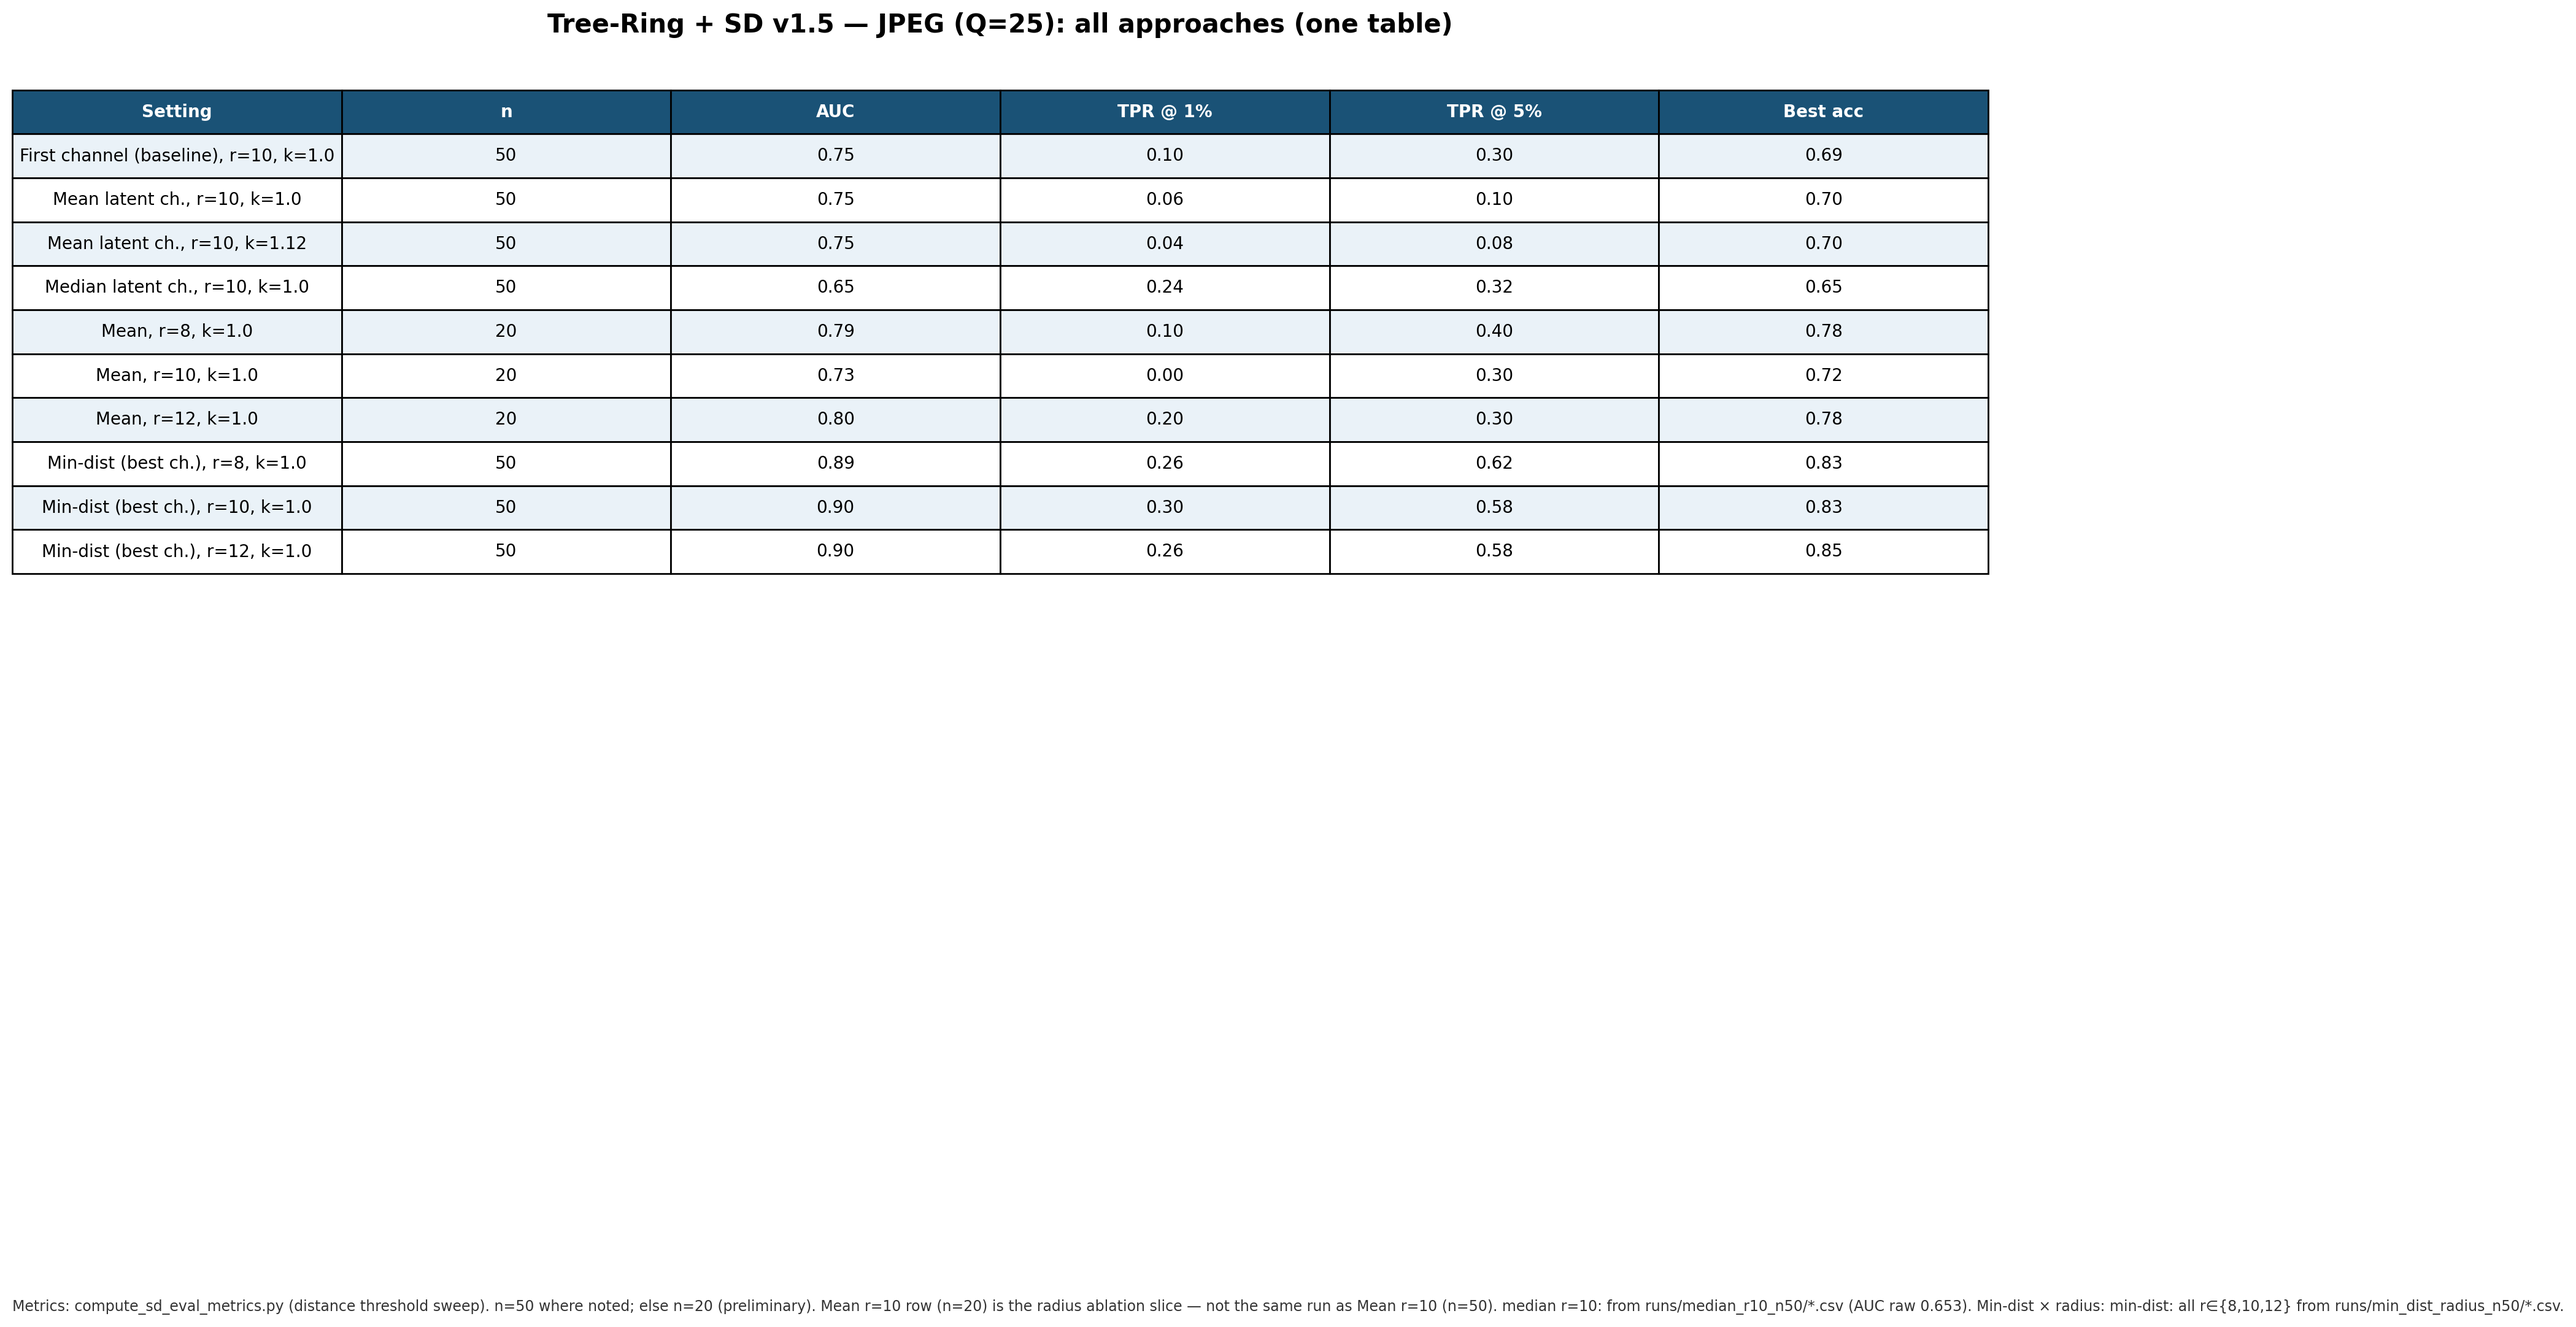
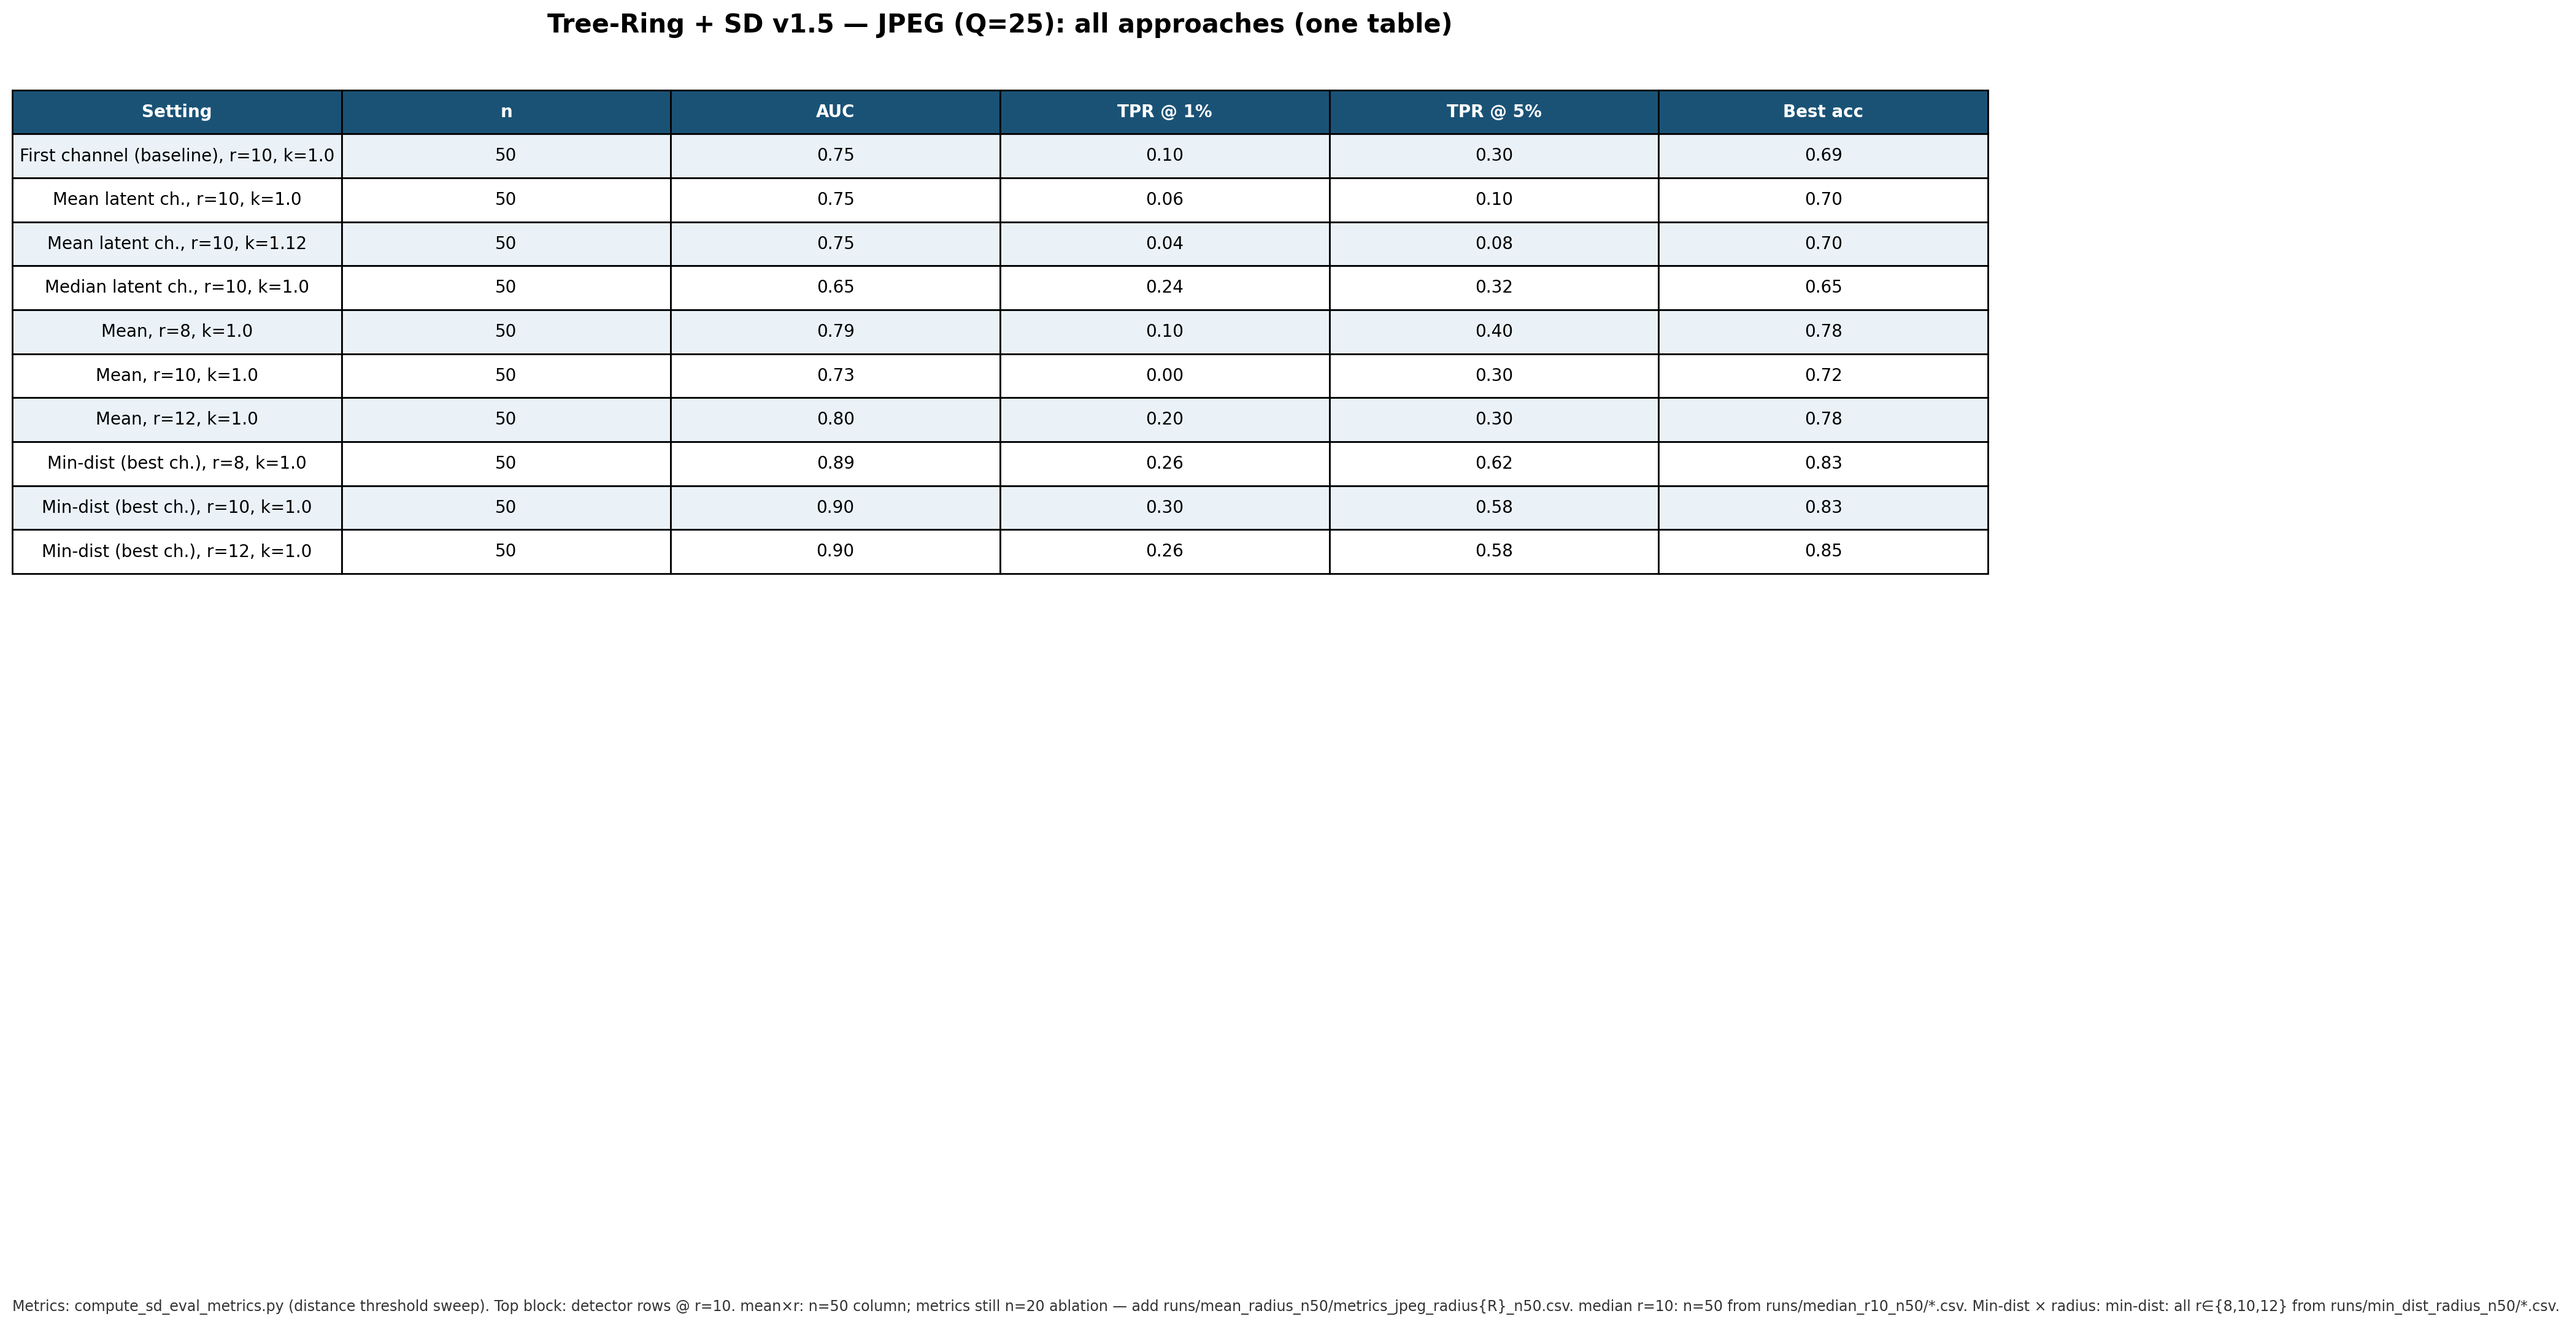
Approaches table: n=50 for median and mean×r rows; optional mean n=50 CSV merge
Made-with: Cursor

diff --git a/make_jpeg_approaches_table.py b/make_jpeg_approaches_table.py
@@ -4,8 +4,10 @@ Render JPEG-defense approaches as one combined table PNG (slides / reports).
 Run from repo root:
   MPLCONFIGDIR=$PWD/.mplconfig python3 make_jpeg_approaches_table.py
 
-Optional: copy metrics_jpeg_min_dist_r{8,10,12}_n50.csv into
-experiments/jpeg_defense/runs/min_dist_radius_n50/ — table uses them automatically.
+Optional CSV dirs under experiments/jpeg_defense/runs/:
+  - min_dist_radius_n50/metrics_jpeg_min_dist_r{R}_n50.csv
+  - mean_radius_n50/metrics_jpeg_radius{R}_n50.csv  (from run_jpeg_radius_ablation.sh, NUM_SAMPLES=50)
+  - median_r10_n50/metrics_jpeg_median_r10_n50.csv
 """
 
 from __future__ import annotations
@@ -24,6 +26,13 @@ MIN_DIST_RADIUS_ROWS: dict[int, tuple[str, str, str, str, str]] = {
     8: ("50", "0.89", "0.26", "0.62", "0.83"),
     10: ("50", "0.90", "0.30", "0.58", "0.83"),
     12: ("50", "0.90", "0.26", "0.58", "0.85"),
+}
+
+# Mean × radius: n=20 WatGPU ablation numbers; n column forced to 50 until mean_radius_n50/*.csv overwrites.
+MEAN_RADIUS_ROWS_N50_DISPLAY: dict[int, tuple[str, str, str, str, str]] = {
+    8: ("50", "0.79", "0.10", "0.40", "0.78"),
+    10: ("50", "0.73", "0.00", "0.30", "0.72"),
+    12: ("50", "0.80", "0.20", "0.30", "0.78"),
 }
 
 
@@ -77,7 +86,32 @@ def _load_median_r10_n50_row(root: Path) -> tuple[tuple[str, str, str, str, str]
     parsed = _parse_jpeg_metrics_csv(p)
     if parsed is None:
         return fallback, "median r=10: parse failed, fallback n=20"
-    return parsed, "median r=10: from runs/median_r10_n50/*.csv (AUC raw 0.653)"
+    n_wm, a, b, c, d = parsed
+    n_wm = str(int(float(n_wm)))
+    return (n_wm, a, b, c, d), f"median r=10: n={n_wm} from runs/median_r10_n50/*.csv"
+
+
+def _merge_mean_radius_rows(root: Path) -> tuple[dict[int, tuple[str, str, str, str, str]], str]:
+    """runs/mean_radius_n50/metrics_jpeg_radius{R}_n50.csv (per run_jpeg_radius_ablation.sh)."""
+    d = root / "experiments/jpeg_defense/runs/mean_radius_n50"
+    rows = dict(MEAN_RADIUS_ROWS_N50_DISPLAY)
+    loaded: list[str] = []
+    for r in (8, 10, 12):
+        p = d / f"metrics_jpeg_radius{r}_n50.csv"
+        if not p.is_file():
+            continue
+        parsed = _parse_jpeg_metrics_csv(p)
+        if parsed is None:
+            continue
+        rows[r] = parsed
+        loaded.append(f"r{r}=file")
+    if not loaded:
+        note = "mean×r: n=50 column; metrics still n=20 ablation — add runs/mean_radius_n50/metrics_jpeg_radius{R}_n50.csv"
+    elif len(loaded) == 3:
+        note = "mean×r: all r∈{8,10,12} from runs/mean_radius_n50/*.csv"
+    else:
+        note = "mean×r: " + ", ".join(loaded) + "; missing radii use n=20 ablation numbers @ n=50 label"
+    return rows, note
 
 
 def main() -> None:
@@ -97,6 +131,7 @@ def main() -> None:
 
     min_dist_rows, min_dist_source = _merge_min_dist_rows(root)
     median_row_vals, median_source = _load_median_r10_n50_row(root)
+    mean_rows, mean_source = _merge_mean_radius_rows(root)
 
     hdr = ["Setting", "n", "AUC", "TPR @ 1%", "TPR @ 5%", "Best acc"]
     rows: list[list[str]] = [
@@ -105,10 +140,10 @@ def main() -> None:
         ["Mean latent ch., r=10, k=1.0", "50", "0.75", "0.06", "0.10", "0.70"],
         ["Mean latent ch., r=10, k=1.12", "50", "0.75", "0.04", "0.08", "0.70"],
         ["Median latent ch., r=10, k=1.0", *median_row_vals],
-        # Mean + radius (JPEG only, n=20)
-        ["Mean, r=8, k=1.0", "20", "0.79", "0.10", "0.40", "0.78"],
-        ["Mean, r=10, k=1.0", "20", "0.73", "0.00", "0.30", "0.72"],
-        ["Mean, r=12, k=1.0", "20", "0.80", "0.20", "0.30", "0.78"],
+        # Mean + radius (JPEG); prefer n=50 metrics CSV, else n=20 ablation @ n=50 column
+        ["Mean, r=8, k=1.0", *mean_rows[8]],
+        ["Mean, r=10, k=1.0", *mean_rows[10]],
+        ["Mean, r=12, k=1.0", *mean_rows[12]],
         # Min-dist + radius (JPEG)
         [
             "Min-dist (best ch.), r=8, k=1.0",
@@ -158,9 +193,10 @@ def main() -> None:
         0.04,
         0.015,
         "Metrics: compute_sd_eval_metrics.py (distance threshold sweep). "
-        "n=50 where noted; else n=20 (preliminary). "
-        "Mean r=10 row (n=20) is the radius ablation slice — not the same run as Mean r=10 (n=50). "
-        f"{median_source}. Min-dist × radius: {min_dist_source}.",
+        "Top block: detector rows @ r=10. "
+        f"{mean_source}. "
+        f"{median_source}. "
+        f"Min-dist × radius: {min_dist_source}.",
         fontsize=8.5,
         color="#333",
         verticalalignment="bottom",
@@ -169,6 +205,7 @@ def main() -> None:
     plt.savefig(out_path, bbox_inches="tight", facecolor="white")
     plt.close()
     print(f"Wrote {out_path}")
+    print(mean_source)
     print(median_source)
     print(min_dist_source)
 

diff --git a/experiments/jpeg_defense/runs/README.md b/experiments/jpeg_defense/runs/README.md
@@ -6,6 +6,7 @@
 | **`min_dist_n20/`** | Min-dist channel detector, JPEG Q25, n=20 (CSV + metrics). |
 | **`min_dist_radius_n50/`** | Drop `metrics_jpeg_min_dist_r{8,10,12}_n50.csv` here → auto-fill [`make_jpeg_approaches_table.py`](../../make_jpeg_approaches_table.py). |
 | **`median_r10_n50/`** | Median channel, r=10, JPEG n=50 metrics CSV → approaches table + report figure. |
+| **`mean_radius_n50/`** | `metrics_jpeg_radius{8,10,12}_n50.csv` from `run_jpeg_radius_ablation.sh` → mean×r rows in approaches table. |
 | **`k112_smoke/`** | Leftover smoke-test folder (can delete if empty). |
 
 **Full radius ablation + mean/k112 CSVs** (large) stay on WatGPU / gitignored dirs:

diff --git a/experiments/jpeg_defense/runs/mean_radius_n50/README.md b/experiments/jpeg_defense/runs/mean_radius_n50/README.md
@@ -1,0 +1,16 @@
+# Mean channel × Fourier radius, JPEG Q25, n=50
+
+WatGPU:
+
+```bash
+NUM_SAMPLES=50 bash scripts/run_jpeg_radius_ablation.sh
+```
+
+Produces `outputs_tree_ring_sd_eval_jpeg_radius/metrics_jpeg_radius{8,10,12}_n50.csv`.
+
+Copy here so `make_jpeg_approaches_table.py` uses **real n=50** cells (otherwise the figure uses n=20 ablation metrics with an n=50 column label):
+
+```bash
+scp f82xu@watgpu.cs.uwaterloo.ca:~/diffusion_watermarking/outputs_tree_ring_sd_eval_jpeg_radius/metrics_jpeg_radius{8,10,12}_n50.csv \
+  experiments/jpeg_defense/runs/mean_radius_n50/
+```

diff --git a/experiments/jpeg_defense/ATTEMPTS.md b/experiments/jpeg_defense/ATTEMPTS.md
@@ -23,7 +23,7 @@
 | 12 | 20 | 0.80 | 0.20 | 0.30 | 0.78 |
 
 **WatGPU folder:** `outputs_tree_ring_sd_eval_jpeg_radius/`  
-**Confirm at n=50** for r=8 and/or r=12 before strong claims.
+**Confirm at n=50** for r=8 and/or r=12 before strong claims. For the combined approaches figure, `scp` `metrics_jpeg_radius{R}_n50.csv` into [`runs/mean_radius_n50/`](runs/mean_radius_n50/) (see README there); until then the PNG uses **n=20 ablation numbers** with **n=50** in the sample-size column.
 
 ## C. Min-dist + Fourier radius (JPEG only, k=1.0), **all n=50**
 
